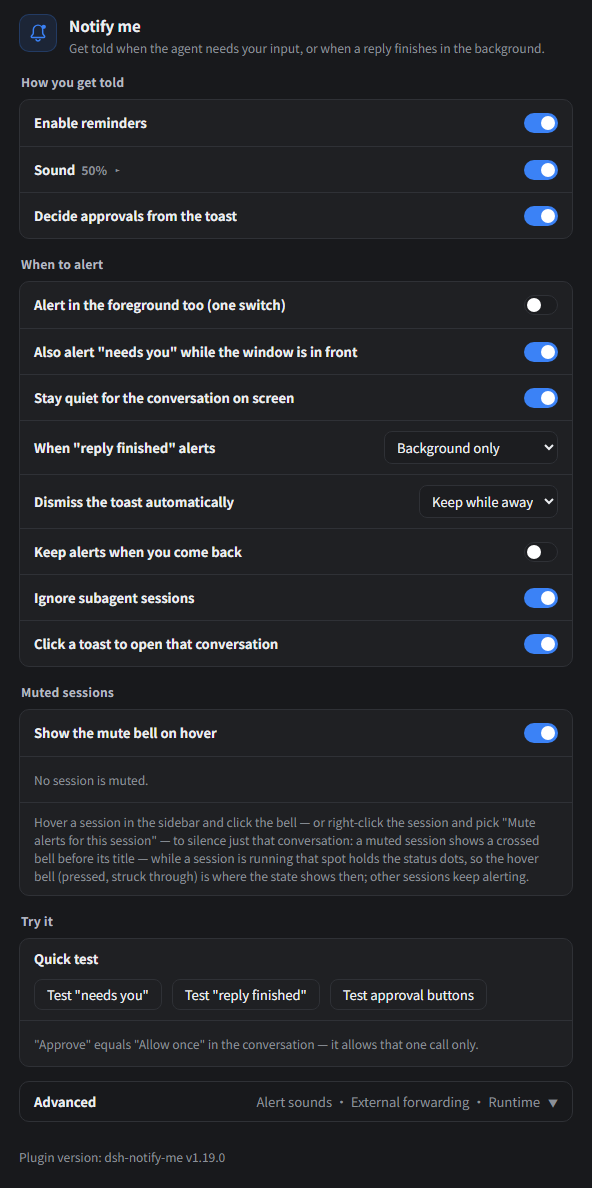
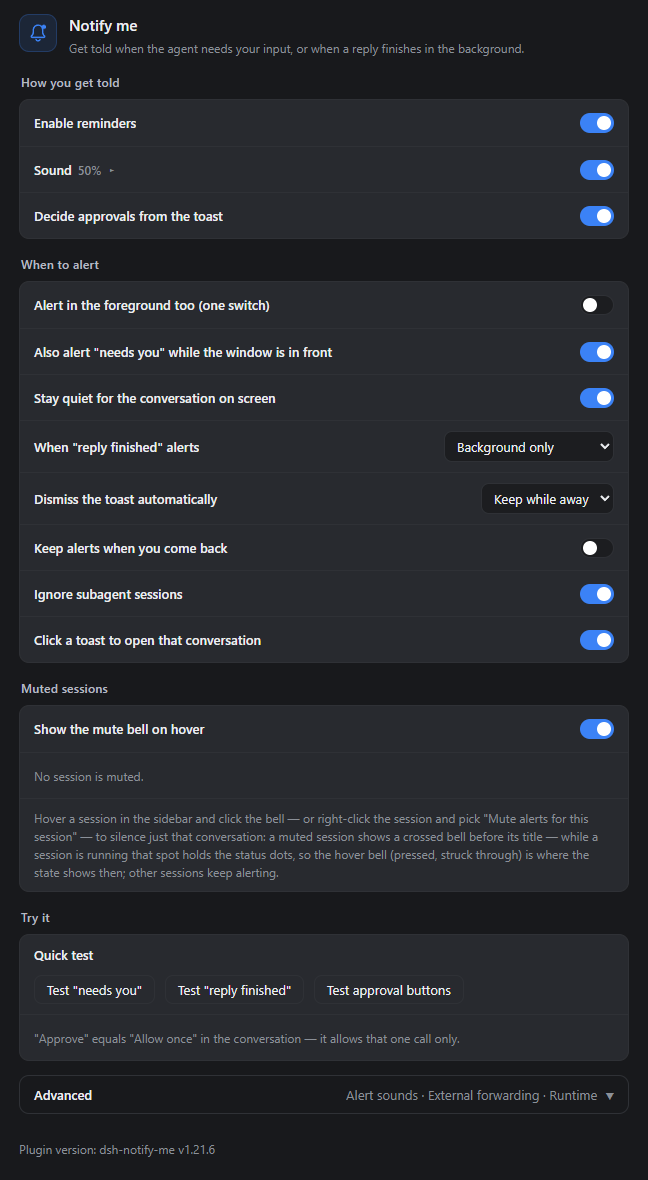
docs: re-shoot the settings screenshots at 1.21.6 and document #44
The panel only changed its version line since 1.19.0; the screenshots now say
1.21.6. Both READMEs gain a pointer for the silent failure #44 caused (no
settings section and no window.__dshNotifyMe at all means the client half never
loaded) and the compatibility section stops describing the manifest inject as
a load-order list now that it is empty.

diff --git a/README.en.md b/README.en.md
@@ -94,6 +94,8 @@ window.__dshNotifyMe.debug()             // bridge ("active" = buttons work), ra
 
 If no test notification appears, check in this order: whether the notification permission was declined (click once on the page and choose **Allow**; or address-bar lock → Site settings → Notifications → Allow → reload), whether DSH was restarted after installing, and whether the browser's notifications are switched off in the OS settings.
 
+If Settings has **no "Notify me" section at all** and `window.__dshNotifyMe` is `undefined` in the console, the client half was never loaded — that happens on some hosts with 1.21.4 and older, and the page reports nothing ([#44](https://github.com/chromoany/dsh-notify-me/issues/44)). Upgrade to 1.21.6 or newer and restart DSH.
+
 ## Why you need it
 
 - **Without full access (`workspace-write` + ask):** keep approval before actions, but a missed request leaves the agent waiting.
@@ -345,7 +347,7 @@ This is primarily a **browser-layer** plugin: local toasts, sound and the title 
 
 ## Compatibility
 
-Every release from `0.1.1-rc.2` through `0.2.2-rc.5` was tested to actually activate, including the npm `next` channel's `0.2.2-rc.3` / `0.2.2-rc.4` / `0.2.2-rc.5` (the criteria: the plugin entry lands in the boot page's `__DSH_BOOT__`, its inject dependencies resolve, `/plugins/??dsh-notify-me/client.js` serves a build containing the new code, and the "Notify me" section appears in Settings). On `0.2.2-rc.3` the isolated run also exercised the settings section rendering, an enable-switch round trip and all four host routes, with no warnings in the host log; on the desktop side the reporter of [#41](https://github.com/chromoany/dsh-notify-me/issues/41) separately verified native toasts and window raising on the same version (1.21.3 only adds the Windows 10 build gate and touches no host API). On 2026-11-19 the then-`latest` `0.2.2-rc.5` and its predecessor `0.2.2-rc.4` each got an isolated run: both keep the 76 boot entries with the plugin at index 65 and the three inject targets ahead of it, a real `?token=` page loaded through headless Edge ran `apply` (`debug()` reports `version: 1.21.5` and `uiSession: bound`, no console errors), all ten host APIs / slots plus the `allowed-once` approval contract are present, and the eight `npm test` suites pass against the cordis 4.1.0 the host ships. Per-release records, the host-generation shape differences and the two traps that fail silently are in **[docs/compatibility.en.md](docs/compatibility.en.md)**.
+Every release from `0.1.1-rc.2` through `0.2.2-rc.5` was tested to actually activate, including the npm `next` channel's `0.2.2-rc.3` / `0.2.2-rc.4` / `0.2.2-rc.5` (the criteria: the plugin entry lands in the boot page's `__DSH_BOOT__`, its runtime service inject `sessions` / `locale` / `slots` resolves, `/plugins/??dsh-notify-me/client.js` serves a build containing the new code, and the "Notify me" section appears in Settings). On `0.2.2-rc.3` the isolated run also exercised the settings section rendering, an enable-switch round trip and all four host routes, with no warnings in the host log; on the desktop side the reporter of [#41](https://github.com/chromoany/dsh-notify-me/issues/41) separately verified native toasts and window raising on the same version (1.21.3 only adds the Windows 10 build gate and touches no host API). On 2026-11-19 the then-`latest` `0.2.2-rc.5` and its predecessor `0.2.2-rc.4` each got an isolated run: both keep the 76 boot entries with the plugin at index 65 — the manifest's `dsh.client.inject` has been empty since 1.21.6, so the loader no longer treats other plugin bundles as a precondition ([#44](https://github.com/chromoany/dsh-notify-me/issues/44)) — a real `?token=` page loaded through headless Edge ran `apply` (`debug()` reports `version: 1.21.5` and `uiSession: bound`, no console errors; after the #44 fix it was re-run on `0.2.2-rc.5` with 1.21.6, again `apply`, `uiSession: bound`, `hostEnv: web`), all ten host APIs / slots plus the `allowed-once` approval contract are present, and the eight `npm test` suites pass against the cordis 4.1.0 the host ships. Per-release records, the host-generation shape differences and the two traps that fail silently are in **[docs/compatibility.en.md](docs/compatibility.en.md)**.
 
 ## Advanced console configuration
 
@@ -482,7 +484,7 @@ npm pack --dry-run               # preview the published tarball
 <details>
 <summary>What each suite covers, and the manual raise check</summary>
 
-`smoke/smoke-test.cjs` is the offline state-machine suite: three host generations + master switch + zh/en cases + the quick-decision bridge (worker half included) + idle detection and toast self-dismiss + withdrawing leftover toasts on return + toast tag length handling + the page's host-bridge probe / heartbeat / release and the shape of `debug().hostBridge`, plus two desktop native-channel cases — a Windows native approval toast's body click switches only after the host focus route is posted (and a no-session click only raises), and a macOS frontmost click switches through the 1 s poll and stops polling once read. `smoke/host-route-test.mjs` needs no local DSH and runs the `lib/index.js` route, its probe and the 403/405/501 gate on every platform.
+`smoke/smoke-test.cjs` is the offline state-machine suite: three host generations + master switch + zh/en cases + the quick-decision bridge (worker half included) + idle detection and toast self-dismiss + withdrawing leftover toasts on return + toast tag length handling + the page's host-bridge probe / heartbeat / release and the shape of `debug().hostBridge`, plus two desktop native-channel cases — a Windows native approval toast's body click switches only after the host focus route is posted (and a no-session click only raises), and a macOS frontmost click switches through the 1 s poll and stops polling once read. It also pins the manifest: `package.json`'s `dsh.client.inject` must stay empty and the runtime line `inject = ["sessions", "locale", "slots"]` must stay as it is ([#44](https://github.com/chromoany/dsh-notify-me/issues/44): the loader reads that list as "arrive these whole bundles first", so an unreachable target leaves the whole entry silently inert). `smoke/host-route-test.mjs` needs no local DSH and runs the `lib/index.js` route, its probe and the 403/405/501 gate on every platform.
 
 The three new suites also ship their own fake `ctx`, need no local DSH and touch no network: `smoke/page-bridge-test.mjs` runs the page-bridge route — status shape, heartbeat and release, missing intent header `403`, cross-origin `403`, bad JSON `400`, oversized `413`, the `allowedOrigins`-derived `Host` (a simulated tunnel) being let through, and path collisions; `smoke/host-fallback-test.mjs` runs the host fallback — approval dedupe, `turn/end` throttling, subagent skip, no push on a fresh lease, a push after the lease expires, an immediate push after `alive:false`, language following the heartbeat, credentials re-read after a 401, and the health probe; `smoke/relay-route-test.mjs` runs the relay — the `GET` probe, `405`, cross-origin `403`, `413`, `400`, `503`, the `200` / `502` mapping and "retry exactly once on a 401", `relay.bodyTemplate` rendering and JSON escaping, a broken template registering no route at boot, and the rendered-size cap.
 
